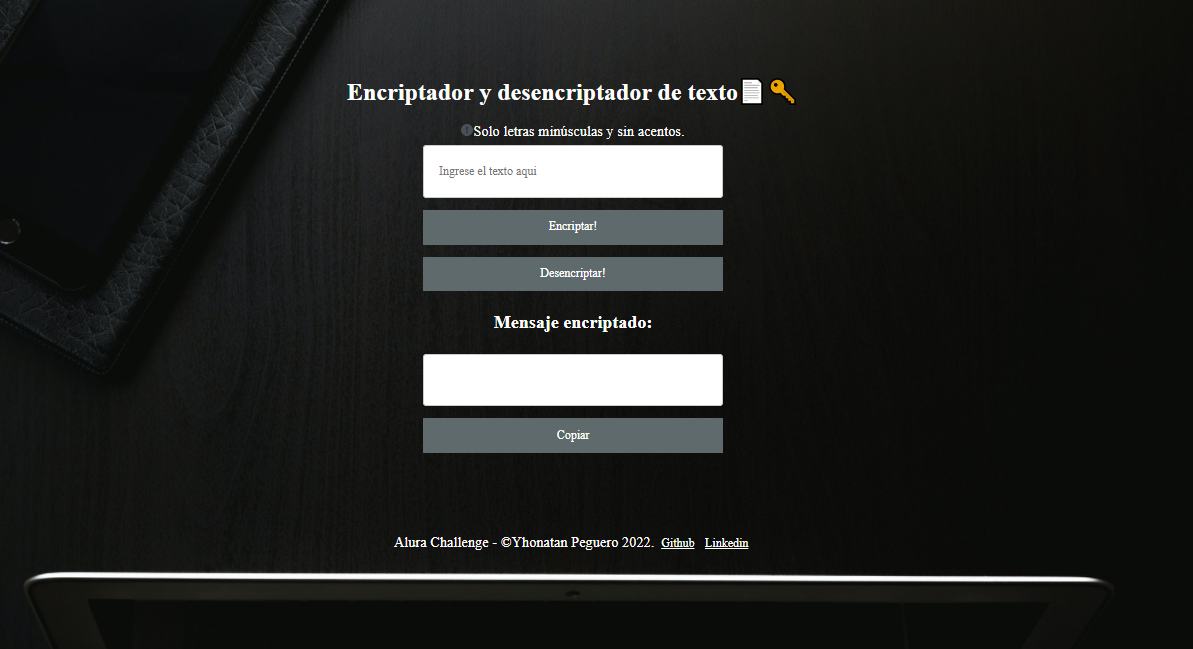
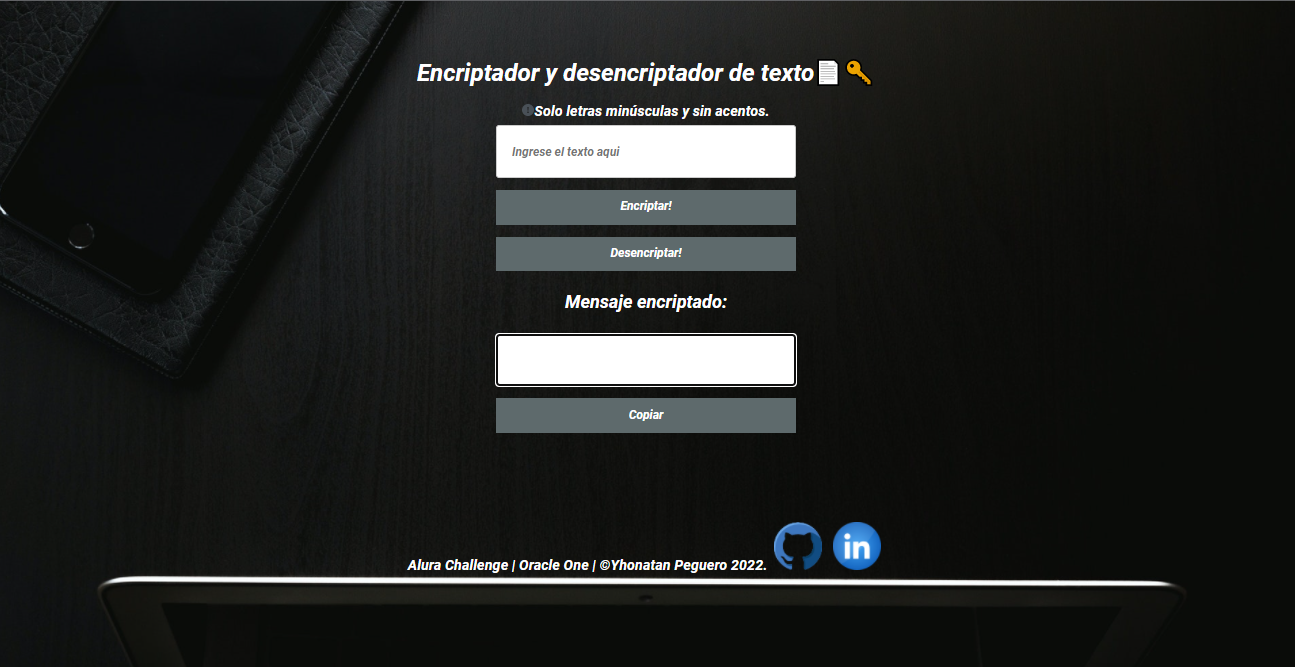
Add new features and functionality

diff --git a/main.js b/main.js
@@ -1,0 +1,99 @@
+/* Reglas de encriptación: 
+"e" es convertido para "enter" 
+"i" es convertido para "imes"
+"a" es convertido para "ai"
+"o" es convertido para "ober"
+"u" es convertido para "ufat"
+Solo letras minusculas
+No se permite acentuación de palabras 
+*/
+
+/* Reglas de desencriptación: 
+"enter" es convertido para "e" 
+"imes" es convertido para "i"
+"ai" es convertido para "a"
+"ober" es convertido para "o"
+"ufat" es convertido para "u"
+Solo letras minusculas
+No se permite acentuación de palabras   
+*/
+
+const botonEncriptar = document.querySelector("#btn-encriptar");
+const textoIngresado = document.querySelector("#input-texto");
+const botonDesencriptar = document.querySelector("#btn-desencriptar");
+const botonCopiar = document.querySelector("#btn-copy");
+const copiarTexto = document.querySelector("#msg");
+
+botonEncriptar.addEventListener("click", function (e) {
+  event.preventDefault();
+
+  validarTexto(textoIngresado);
+  encriptar(textoIngresado);
+  textoIngresado.value = "";
+});
+
+botonDesencriptar.addEventListener("click", function (e) {
+  event.preventDefault();
+
+  validarTexto(textoIngresado);
+  desEncriptar(textoIngresado);
+  textoIngresado.value = "";
+});
+
+botonCopiar.addEventListener("click", function (e) {
+  event.preventDefault();
+  copiar(copiarTexto);
+});
+
+function encriptar(texto) {
+  var textoAEncriptar = texto.value;
+
+  textoAEncriptar = textoAEncriptar.toLowerCase();
+
+  textoAEncriptar = textoAEncriptar.replaceAll("e", "enter");
+  textoAEncriptar = textoAEncriptar.replaceAll("i", "imes");
+  textoAEncriptar = textoAEncriptar.replaceAll("a", "ai");
+  textoAEncriptar = textoAEncriptar.replaceAll("o", "ober");
+  textoAEncriptar = textoAEncriptar.replaceAll("u", "ufar");
+
+  document.querySelector("#msg").value = textoAEncriptar;
+}
+
+function desEncriptar(texto) {
+  var textoADesencriptar = texto.value;
+
+  textoADesencriptar = textoADesencriptar.toLowerCase();
+
+  textoADesencriptar = textoADesencriptar.replaceAll("enter", "e");
+  textoADesencriptar = textoADesencriptar.replaceAll("imes", "i");
+  textoADesencriptar = textoADesencriptar.replaceAll("ai", "a");
+  textoADesencriptar = textoADesencriptar.replaceAll("ober", "o");
+  textoADesencriptar = textoADesencriptar.replaceAll("ufar", "u");
+
+  document.querySelector("#msg").value = textoADesencriptar;
+}
+
+function copiar(input) {
+  input.focus();
+  document.execCommand("selectAll");
+  document.execCommand("copy");
+}
+
+function validarTexto(texto) {
+  var reglaValidacion = new RegExp("[°!$%&/()=?¡'¿áéíóú]|[0-9]", "g");
+  var ingresado = texto.value;
+
+  if (ingresado == "") {
+    alert("Por favor, ingrese el texto a encriptar.");
+    return false;
+  } else {
+    if (!reglaValidacion.test(ingresado)) {
+      return true;
+    } else {
+      alert(
+        "No se permiten letras con acentos, números ni caracteres especiales, por favor intente de nuevo."
+      );
+      return false;
+    }
+  }
+}

diff --git a/index.html b/index.html
@@ -1,20 +1,23 @@
 <!DOCTYPE html>
-<meta lang="en">
+<html lang="pt-br">
 
 <head>
-  <meta>
+  <title>Encriptador Online👨🏻💻</title>
+  <link rel="stylesheet" href="./css/styles.css">
+  <link rel="stylesheet" href="/css/normalize.css">
+  <link rel="preconnect" href="https://fonts.googleapis.com">
+  <link rel="preconnect" href="https://fonts.gstatic.com" crossorigin>
+  <link href="https://fonts.googleapis.com/css2?family=Roboto:ital,wght@1,700&display=swap" rel="stylesheet">
   <meta charset="UTF-8">
   <meta http-equiv="X-UA-Compatible" content="IE=edge">
   <meta name="viewport" content="width=device-width, initial-scale=1.0">
-  <link rel="stylesheet" href="./css/normalize.css">
-  <link rel="stylesheet" href="./css/styles.css">
-  <title> Encriptador Online👨🏻💻</title>
+  <script src="main.js" defer></script>
 </head>
 
 <body>
-  <!-- Header site -->
+
   <main class="main">
-    <h1>Encriptador y desencriptador de texto📄🔑</h1>
+    <h1 class="titulo">Encriptador y desencriptador de texto📄🔑</h1>
     <section class="form-box">
       <span>
         <img src="./assets/iconp.svg"></img>Solo letras minúsculas y sin acentos.
@@ -25,21 +28,20 @@
         <input class="btn" type="submit" value="Desencriptar!" id="btn-desencriptar">
       </form>
     </section>
+
     <section class="msg-box">
       <h2 id="msg-encriptado">Mensaje encriptado:</h2>
       <input class="text-input" type="text" id="msg"></input>
       <input class="btn" type="submit" value="Copiar" id="btn-copy">
     </section>
-    </section>
 
     <!-- Footer site -->
     <footer class="footer-site">
-      <span>Alura Challenge - ©Yhonatan Peguero 2022.</span>
-      <a href="https://github.com/YhonaPeguero" target="_blank">Github</a>
-      <a href="https://www.linkedin.com/in/yhonatan-peguero/" target="_blank">Linkedin</a>
+      <span>Alura Challenge | Oracle One | ©Yhonatan Peguero 2022.</span>
+      <a href="https://github.com/YhonaPeguero" target="_blank"> <img src="/assets/github.png" /></a>
+      <a href="https://www.linkedin.com/in/yhonatan-peguero/" target="_blank"><img src="/assets/linkedin.png" /></a>
     </footer>
   </main>
-
 </body>
 
 </html>

diff --git a/css/styles.css b/css/styles.css
@@ -1,6 +1,7 @@
 body {
   background-image: url("../assets/bg.jpg");
   background-size: cover;
+  font-family: "Roboto", sans-serif;
 }
 
 h1 {
@@ -62,5 +63,5 @@ a {
 
 .footer-site {
   text-align: center;
-  margin: 100px 0;
+  margin: 110px 0;
 }
